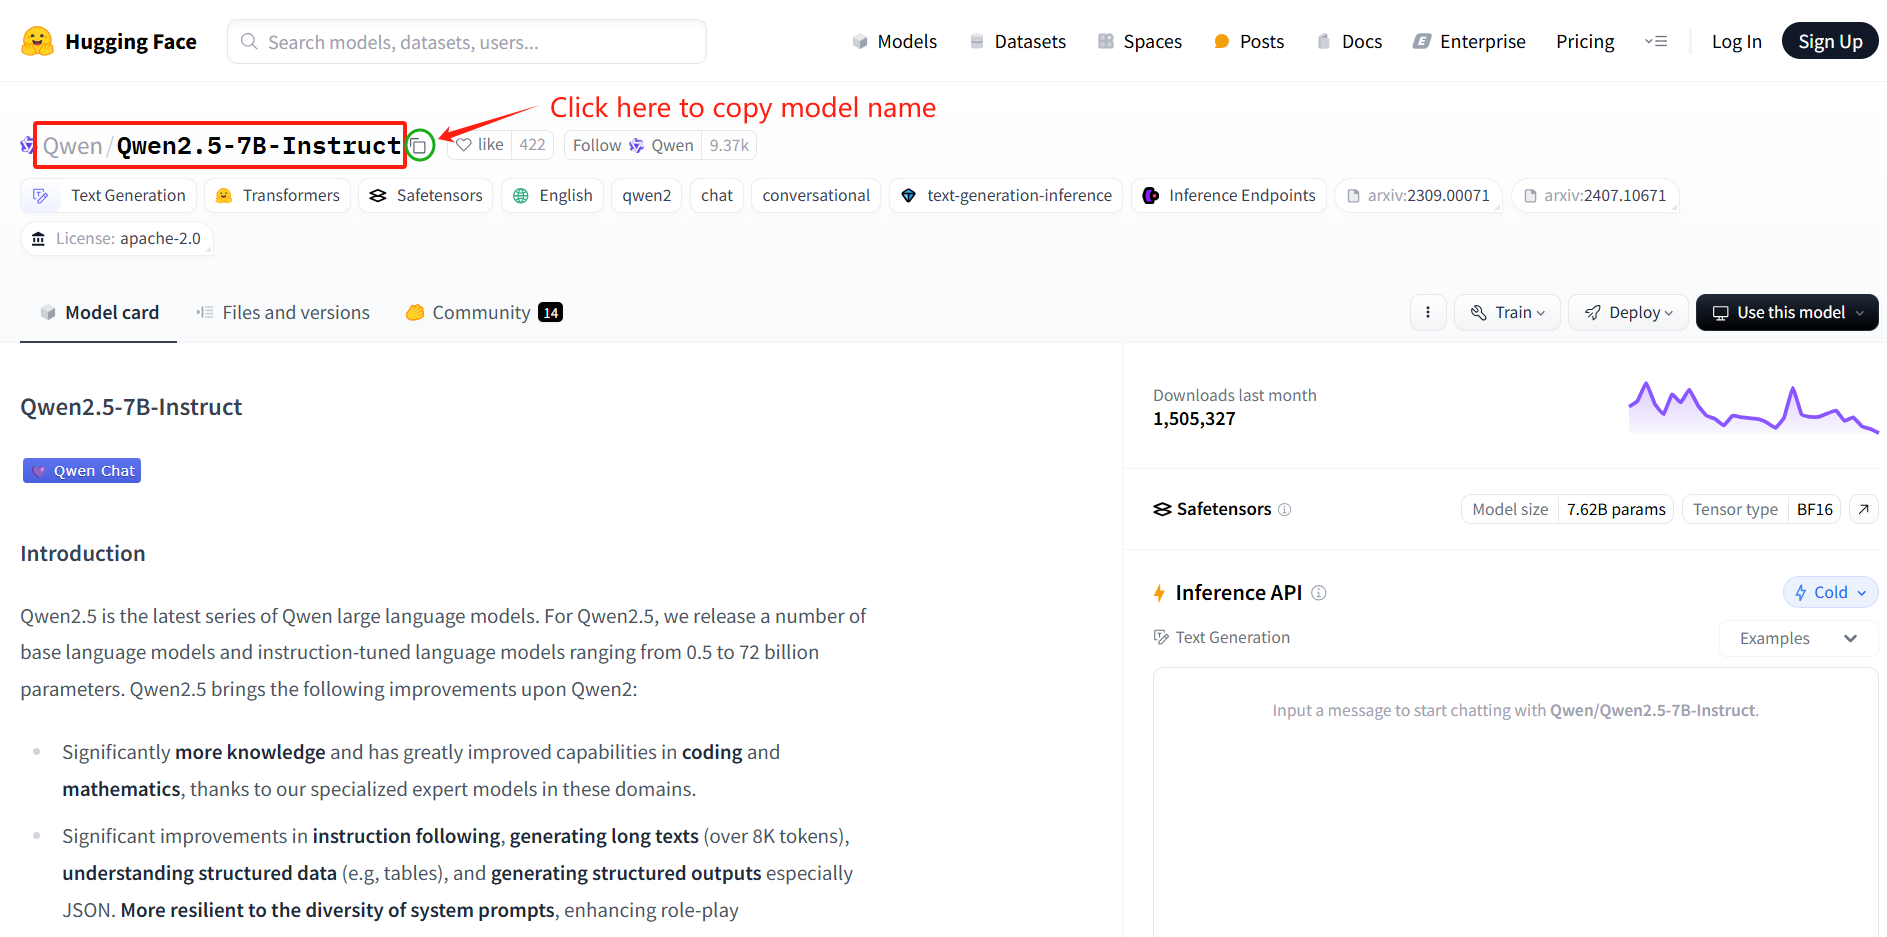
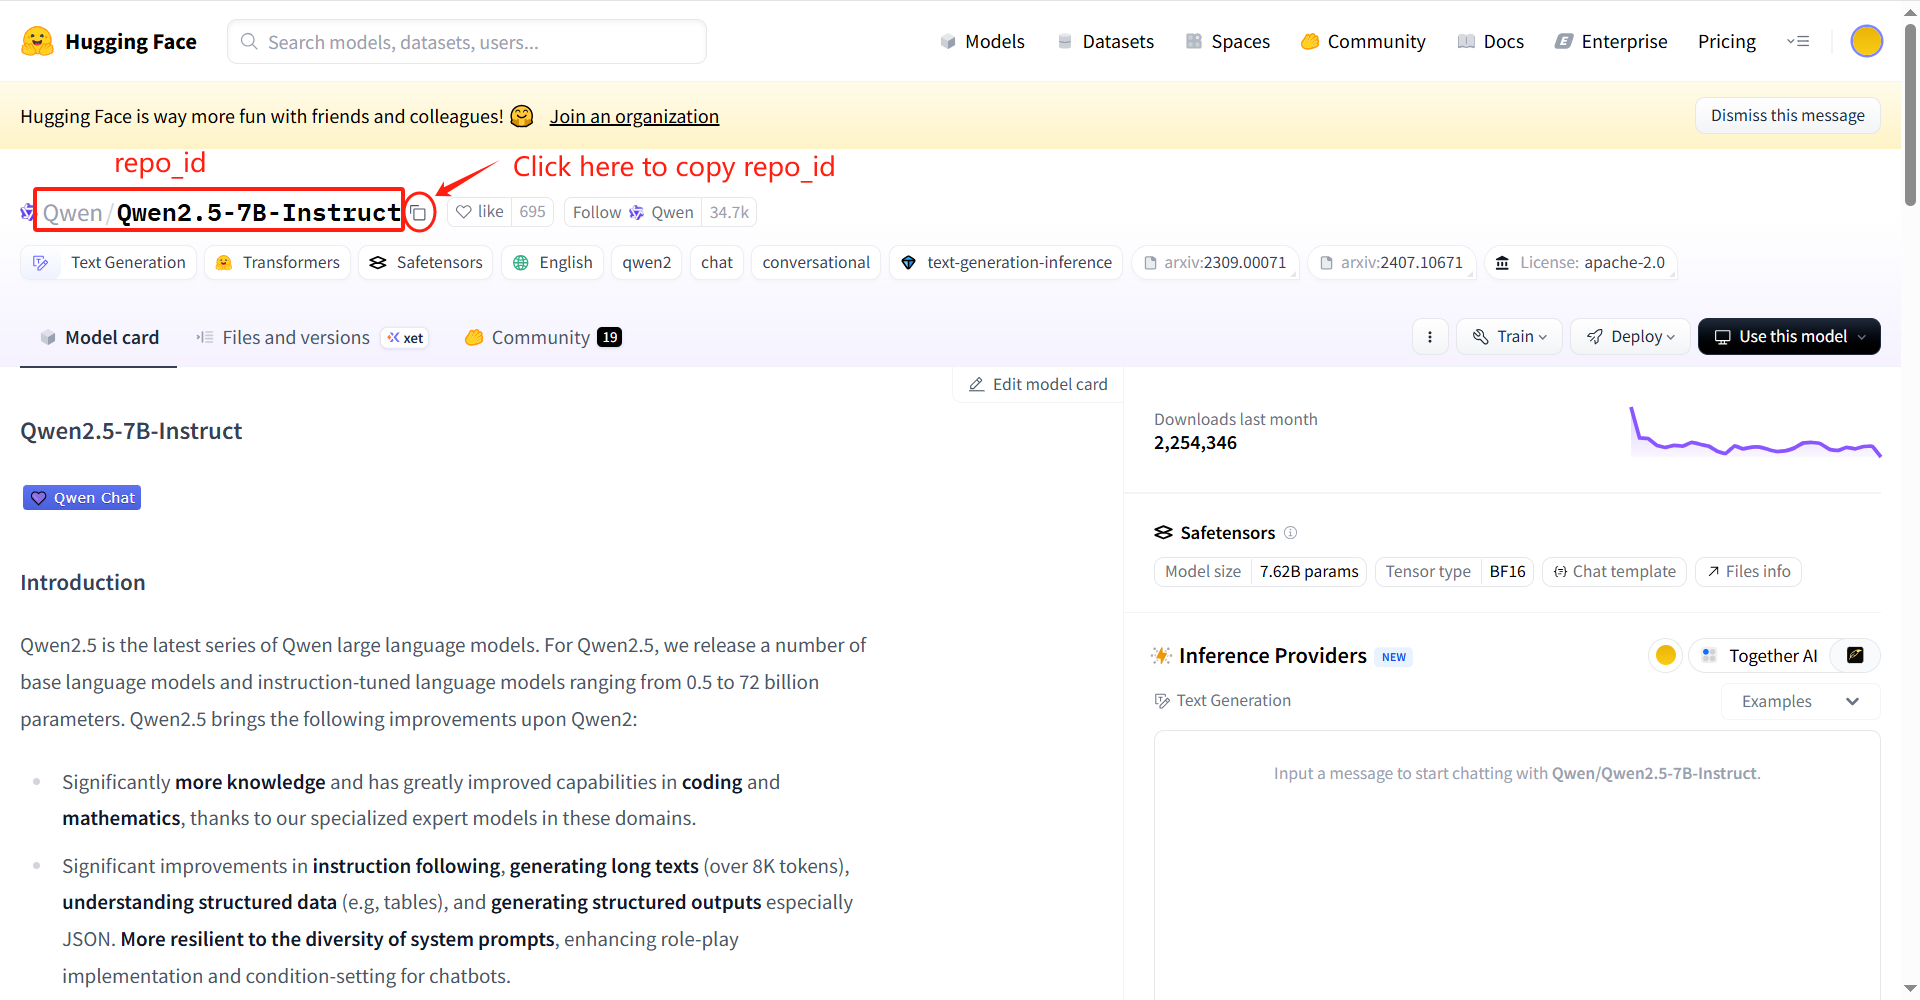
支持下载模型、数据集、空间三种仓库类别 支持Xet仓库 镜像构建时，替换apt阿里源和pip清华源以加速下载，并去除多余的下载项目 修改说明文档

diff --git a/download_script.py b/download_script.py
@@ -1,0 +1,73 @@
+from typing import Literal, Union
+from pathlib import Path
+import os
+
+os.environ["HF_ENDPOINT"] = "https://hf-mirror.com"
+
+from huggingface_hub import snapshot_download
+from huggingface_hub.errors import GatedRepoError, RepositoryNotFoundError, RevisionNotFoundError, LocalEntryNotFoundError
+
+
+def download_hf(repo_id: str, repo_type: str = "model", revision: Union[str, None] = None,
+                token: Union[str, None] = None):
+    """
+    从HuggingFace下载完整的模型或数据集。
+
+    Args:
+        repo_id (str): 仓库ID。
+        repo_type (str, optional): 仓库类型（模型或数据集）。默认为 "model"。
+        revision (str, optional): 要下载的版本（分支、标签、commit hash）。默认为 None。
+        local_dir (str, optional): 下载到的本地目录。默认为 None。
+        token (str, optional): huggingface的个人token、
+    """
+    if repo_id.count('/') != 1:
+        print('仓库名称格式错误！请检查仓库名称，仓库名称格式通常为："<用户或组织的名称>/<仓库名称>"。')
+        return '下载终止'
+    _, repo_name = repo_id.split('/')
+    local_dir_concat = Path("/opt/saved_model_parameters") / repo_name
+    if repo_type not in ["model", "dataset", "space"]:
+        print('仓库类型错误！请检查仓库类型，支持的仓库类型有 "model"、"dataset"、"space" 三种。')
+        return '下载终止'
+
+    print(f"正在下载仓库 {repo_id} ...")
+    try:
+        snapshot_download(
+            repo_id=repo_id,
+            repo_type=repo_type,
+            revision=revision,
+            local_dir=local_dir_concat,
+            token=token
+        )
+    except GatedRepoError:
+        print("仓库无权限！需要使用有权限的账号，并传入账号的token。")
+        return '下载终止'
+    except RepositoryNotFoundError:
+        print("找不到该仓库！请检查仓库地址。")
+        return '下载终止'
+    except RevisionNotFoundError:
+        print("找不到该仓库的指定版本！请检查版本名称。")
+        return '下载终止'
+    except LocalEntryNotFoundError:
+        print("网络连接失败！请检查网络是否可达。")
+        return '下载终止'
+    except Exception as e:
+        print(f"下载失败！报错原因：\n{str(e)}")
+        return '下载终止'
+    return '下载完成'
+
+
+if __name__ == "__main__":
+    repo_id = os.getenv("repo_id")
+    repo_type = os.getenv("repo_type", "model")
+    revision = os.getenv("branch", None)
+    token = os.getenv("token", None)
+    if repo_id is None:
+        raise Exception("未传入仓库名称！请通过 -e <repo_id> 来传入需要下载的仓库名称。")
+
+    closing_remark = download_hf(
+        repo_id=repo_id,
+        repo_type=repo_type,
+        revision=revision,
+        token=token
+    )
+    print(closing_remark)

diff --git a/README.md b/README.md
@@ -1,33 +1,68 @@
-# HF_Download_Docker
-Build a docker image to download models from huggingface. Using hf mirror.
+Build a Docker image for downloading models from Hugging Face, using the `hf mirror` image source (available in mainland China).
 
 # Quick Start
 
-## 1. Building docker image
+## 1. Build the Image
+
 ```bash
 docker build -t hf_download:latest .
 ```
 
-## 2. Start the container
-The command to start the container is as follows:
+## 2. Run the Container
+
+The command to run the container is as follows:
+
 ```bash
-docker run --rm -v /your_download_path:/opt/saved_model_parameters -e model_name=download_model_name -e token=your_huggingface_token hf_download:latest
+docker run --rm -it \
+  -v <your download directory>:/opt/saved_model_parameters \
+  -e repo_id=<repository name> \
+  -e repo_type=<repository type> \
+  -e branch=<repository branch> \
+  -e token=<your Hugging Face account token> \
+  hf_download:latest
 ```
-You may need to fill in the variables **your_download_path**, **download_model_name** and **your_huggingface_token**. 
-Example:
+
+Parameter Description:
+
+| Parameter Name | Parameter Description                                        | Required                                                   | Example Value           |
+| -------------- | ------------------------------------------------------------ | ---------------------------------------------------------- | ----------------------- |
+| repo_id        | Repository name (repository ID)                              | Yes                                                        | Qwen/Qwen3-Embedding-8B |
+| repo_type      | Repository type, available options are:<br />model: Model repository<br />dataset: Dataset repository<br />space: Space repository | No<br />Default value is model.                            | model                   |
+| branch         | Repository branch                                            | No<br />Default value is None, indicating the main branch. |                         |
+| token          | Hugging Face account token, required only when downloading private repositories<br />For example, meta-llama/Llama-3.1-8B-Instruct requires logging into Hugging Face and applying for access rights before downloading. The account token must be provided during download. | No<br />Default value is None.                             | hf_xxxxxxxxx            |
+
+Example command:
+
 ```bash
-docker run --rm -v /data/my_models:/opt/saved_model_parameters -e model_name=Qwen/Qwen2.5-14B-Instruct -e token=hf_xxxxxx hf_download:latest
+docker run --rm -it -v /data/my_models:/opt/saved_model_parameters -e repo_id=Qwen/Qwen2.5-14B-Instruct hf_download:latest
 ```
-Just start the container to begin the download, and the container will be automatically deleted after the download is completed.
 
-### Supplementary Note 1 model_name acquisition method
+Once the container is started, the download will begin. The container will be automatically removed after the download is complete.
 
-  Go to the Hugging Face official website, find the model you need to download, and click the copy button on the right side of the model name (as shown in the figure below).
-  ![获取模型名称](images/get_model_name.png)
+### Additional Notes
 
-### Supplementary Note 2 huggingface token acquisition method
+#### 1. How to Obtain the Repository Name (`repo_id`)
 
-  Go to the Hugging Face official website, log in to your account in the upper right corner (you can register an account if you don't have one). After logging in, click on your avatar and select Access Token.
-  ![获取token图1](images/get_token_1.png)
-  On the following page, create your Hugging Face token and remember to copy and save it in a suitable place. Your token will only be displayed once after creation. If you need to use it repeatedly, please remember to save it.
-  ![获取token图2](images/get_token_2.png)
+Go to the Hugging Face official website, find the model you want to download, and click the copy button to the right of the model name (as shown in the figure below).
+
+![image-20250613154245011](images/get_model_name.png)
+
+
+
+#### 2. How to Obtain the Repository Branch (`branch`)
+
+Go to the Hugging Face official website, find the model you want to download, and click "Files and versions" to view the repository files. The branch name is indicated at the top-left corner of the file list. This parameter is reserved for special cases, as most repositories only have a main branch.
+
+![image-20250613154127911](images/get_model_branch.png)
+
+
+
+#### 3. How to Obtain the Hugging Face Account Token
+
+Go to the Hugging Face official website, log in to your account in the top-right corner (you can register if you don't have an account). After logging in, click on your avatar and select Access Token.
+
+![Token Acquisition Image 1](images/get_token_1.png)
+
+On the following page, create your Hugging Face token and remember to copy and save it to a suitable place. Your token will only be displayed once after creation. If you need to use it repeatedly, make sure to save it.
+
+![Token Acquisition Image 2](images/get_token_2.png)

diff --git a/README_CN.md b/README_CN.md
@@ -3,27 +3,56 @@
 # Quick Start
 
 ## 1. 构建镜像
+
 ```bash
 docker build -t hf_download:latest .
 ```
 
 ## 2. 启动容器
+
 启动容器的指令如下
+
 ```bash
-docker run --rm -v /你的下载目录:/opt/saved_model_parameters -e model_name=模型名称 -e token=你的huggingface账号token hf_download:latest
+docker run --rm -it \
+  -v <你的下载目录>:/opt/saved_model_parameters \
+  -e repo_id=<仓库名称> \
+  -e repo_type=<仓库类型> \
+  -e branch=<仓库分支> \
+  -e token=<你的huggingface账号token> \
+  hf_download:latest
 ```
-需要填写**你的下载目录**、**模型名称**以及**huggingface账号token**，比如
+
+参数说明：
+
+| 参数名称  | 参数描述                                                     | 是否必传                               | 示例值                  |
+| --------- | ------------------------------------------------------------ | -------------------------------------- | ----------------------- |
+| repo_id   | 仓库名称（仓库ID）                                           | 是                                     | Qwen/Qwen3-Embedding-8B |
+| repo_type | 仓库类型，可选值有：<br />model：模型仓库<br />dataset：数据集仓库<br />space：空间仓库 | 否<br />默认值为model                  | model                   |
+| branch    | 仓库的分支                                                   | 否<br />默认值为None，表示选择main分支 |                         |
+| token     | huggingface的账户token，仅在下载需要权限的仓库时需要传入<br />比如meta-llama/Llama-3.1-8B-Instruct需要在huggingface上登录并申请权限通过后才有权下载，下载时需要传账户token | 否<br />默认值为None                   | hf_xxxxxxxxx            |
+
+示例指令：
+
 ```bash
-docker run --rm -v /data/my_models:/opt/saved_model_parameters -e model_name=Qwen/Qwen2.5-14B-Instruct -e token=hf_xxxxxx hf_download:latest
+docker run --rm -it -v /data/my_models:/opt/saved_model_parameters -e repo_id=Qwen/Qwen2.5-14B-Instruct hf_download:latest
 ```
+
 启动容器即可进行下载，下载完成后会自动删除容器
 
-### 补充说明1 模型名称 获取方式
+### 补充说明
+
+#### 1 仓库名称（repo_id） 获取方式
 
   进入huggingface官网，找到你需要下载的模型，点击模型名称右侧的复制按钮（如下图）
-  ![获取模型名称](images/get_model_name.png)
+![image-20250613154245011](images/get_model_name.png)
 
-### 补充说明2 huggingface账号token 获取方式
+#### 2 仓库分支(branch) 获取方式
+
+进入huggingface官网，找到你需要下载的模型，点击 "Files and versions" 查看仓库文件，文件列表的左上方标明了分支名称。此参数预留给特殊情况使用，因为大部分仓库都只有main分支
+
+![image-20250613154127911](images/get_model_branch.png)
+
+#### 3 huggingface账号token 获取方式
 
   进入huggingface官网，右上角登录你的账号（没有账号可以注册一个），登录后点击头像，选择Access Token
   ![获取token图1](images/get_token_1.png)
